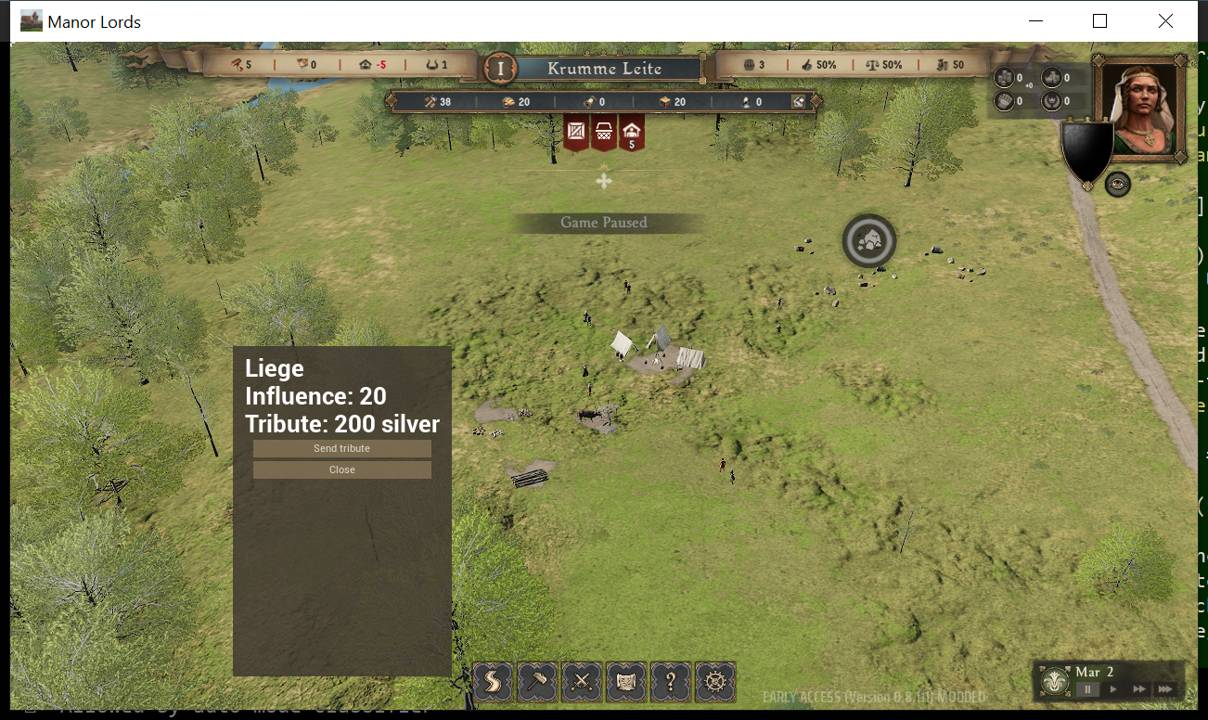
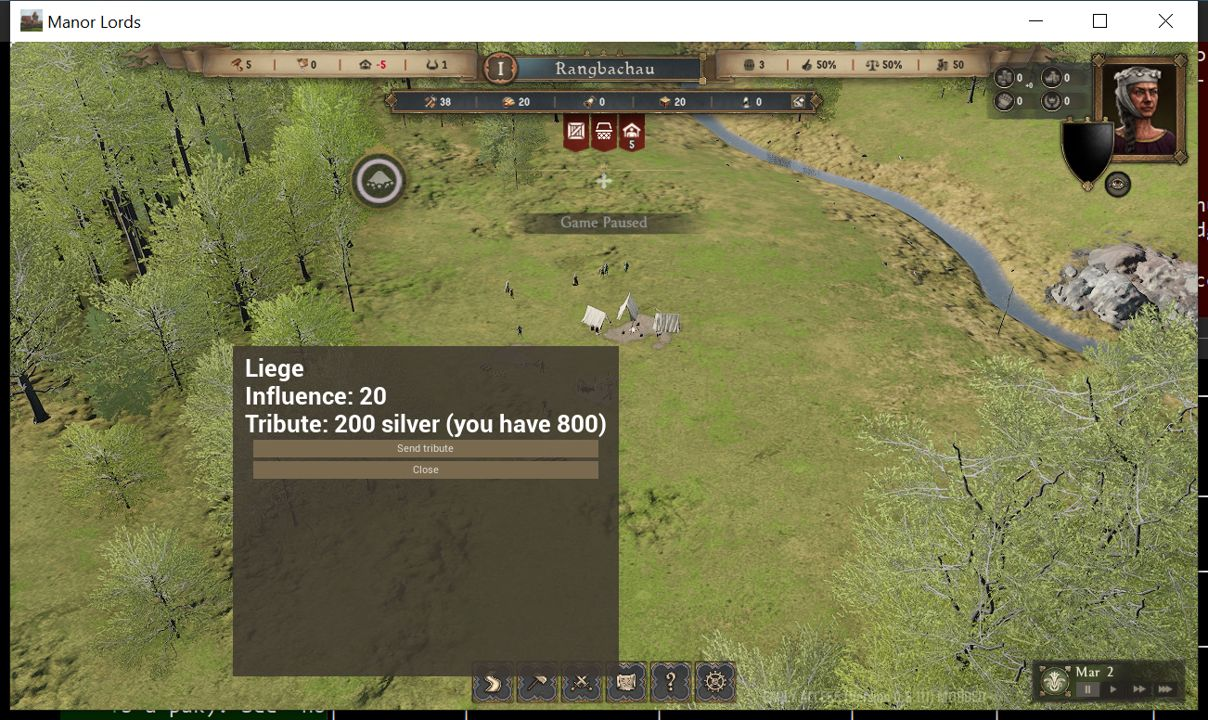
fix(liege_influence): show the treasury in the menu and refresh the HUD
A Lua write to silver raises no HUD event, so the lord panel showed 0.
The menu now reads "Tribute: 200 silver (you have <n>)" and calls
updatePlayerStats after a tribute. New evidence from runs
20261020-040052-b793 and 20261020-040350-ca20.

Refs #271

Claude-Session: https://claude.ai/code/session_01QcJ6YZ6tYdF8xauANKSULz

diff --git a/harness/tests/test_fakegame_liege_influence.py b/harness/tests/test_fakegame_liege_influence.py
@@ -77,7 +77,7 @@ class LiegeInfluenceTests(VassalsTestCase):
         self.send(100)
         wanted = self.ask("liege_menu_state")["result"]["wanted_texts"]
         self.assertEqual(wanted["InfluenceText"], "Influence: 10")
-        self.assertEqual(wanted["TributeInfoText"], "Tribute: 200 silver")
+        self.assertEqual(wanted["TributeInfoText"], "Tribute: 200 silver (you have 900)")
         self.assertFalse(self.ask("liege_menu_state")["result"]["open"])
 
     def test_close_without_an_open_menu_is_fine(self):

diff --git a/openspec/changes/archive/2026-10-19-add-liege-influence/notes/silver-field.md b/openspec/changes/archive/2026-10-19-add-liege-influence/notes/silver-field.md
@@ -1,0 +1,15 @@
+# Silver field and the HUD number
+
+Question (owner review of PR #322): why did the HUD silver show 0 before and after a tribute?
+
+Spike (2026-10-19, `--keep-open` run `20261020-035504-56ae`, new game):
+- The HUD number is `TreasuryNumeric` (MLNumericTextBlock) in `W_HUD_LordPanelV2`. `GetTargetValue` gives its value.
+- After the tribute, `playerRef.silver` was 800 and the HUD value was 0.
+- Calling `updatePlayerStats` on the lord panel set the HUD value to 800. So the HUD shows `playerRef.silver`: the feature uses the right field.
+- `set playerRef.silver = 1000`, then 4 s unpaused, did not change the HUD (it stayed 800). The panel updates on its own event, not on a timer. A direct write raises no event.
+
+Result:
+- Cause: the HUD did not refresh. The tribute field is correct.
+- Fix in the feature: after a tribute, and when the menu silver text changes, call `updatePlayerStats` on `W_HUD_LordPanel_V2_C` (in `pcall`). `TributeInfoText` now reads "Tribute: 200 silver (you have <n>)". No new widget element, so no re-cook.
+
+Spec impact: the text of `TributeInfoText` changes, and the HUD is refreshed after a tribute. The spec does not state the exact text. Add one sentence to the menu requirement of `mod/liege_influence` at the next spec edit. The behavior of silver and influence did not change.

diff --git a/openspec/changes/archive/2026-10-19-add-liege-influence/evidence/README.md b/openspec/changes/archive/2026-10-19-add-liege-influence/evidence/README.md
@@ -1,8 +1,10 @@
 # Evidence
 
-Test scenario `liege-tribute-menu`, run `20261020-025303-1239` (`--new-game --pak raidmenu`, verdict pass).
+Test scenario `liege-tribute-menu`, run `20261020-040052-b793` (`--new-game --pak raidmenu`, verdict pass). Test scenario `liege-send-tribute`, run `20261020-040350-ca20` (`--pak raidmenu`, verdict pass).
 
 | Picture | What it shows |
 |---|---|
-| `liege-menu-open.jpg` | The tribute menu is open (influence 0, tribute 200 silver). |
-| `liege-menu-after-tribute.jpg` | After a real mouse click on "Send tribute": influence 20. |
+| `liege-menu-open.jpg` | The tribute menu is open: influence 0, "Tribute: 200 silver (you have 1000)". |
+| `liege-menu-after-tribute.jpg` | After a real mouse click on "Send tribute": influence 20, "you have 800". |
+
+In the first pictures the HUD silver of the lord panel showed 0, because a direct write to `playerRef.silver` does not refresh the panel. See `notes/silver-field.md`.
